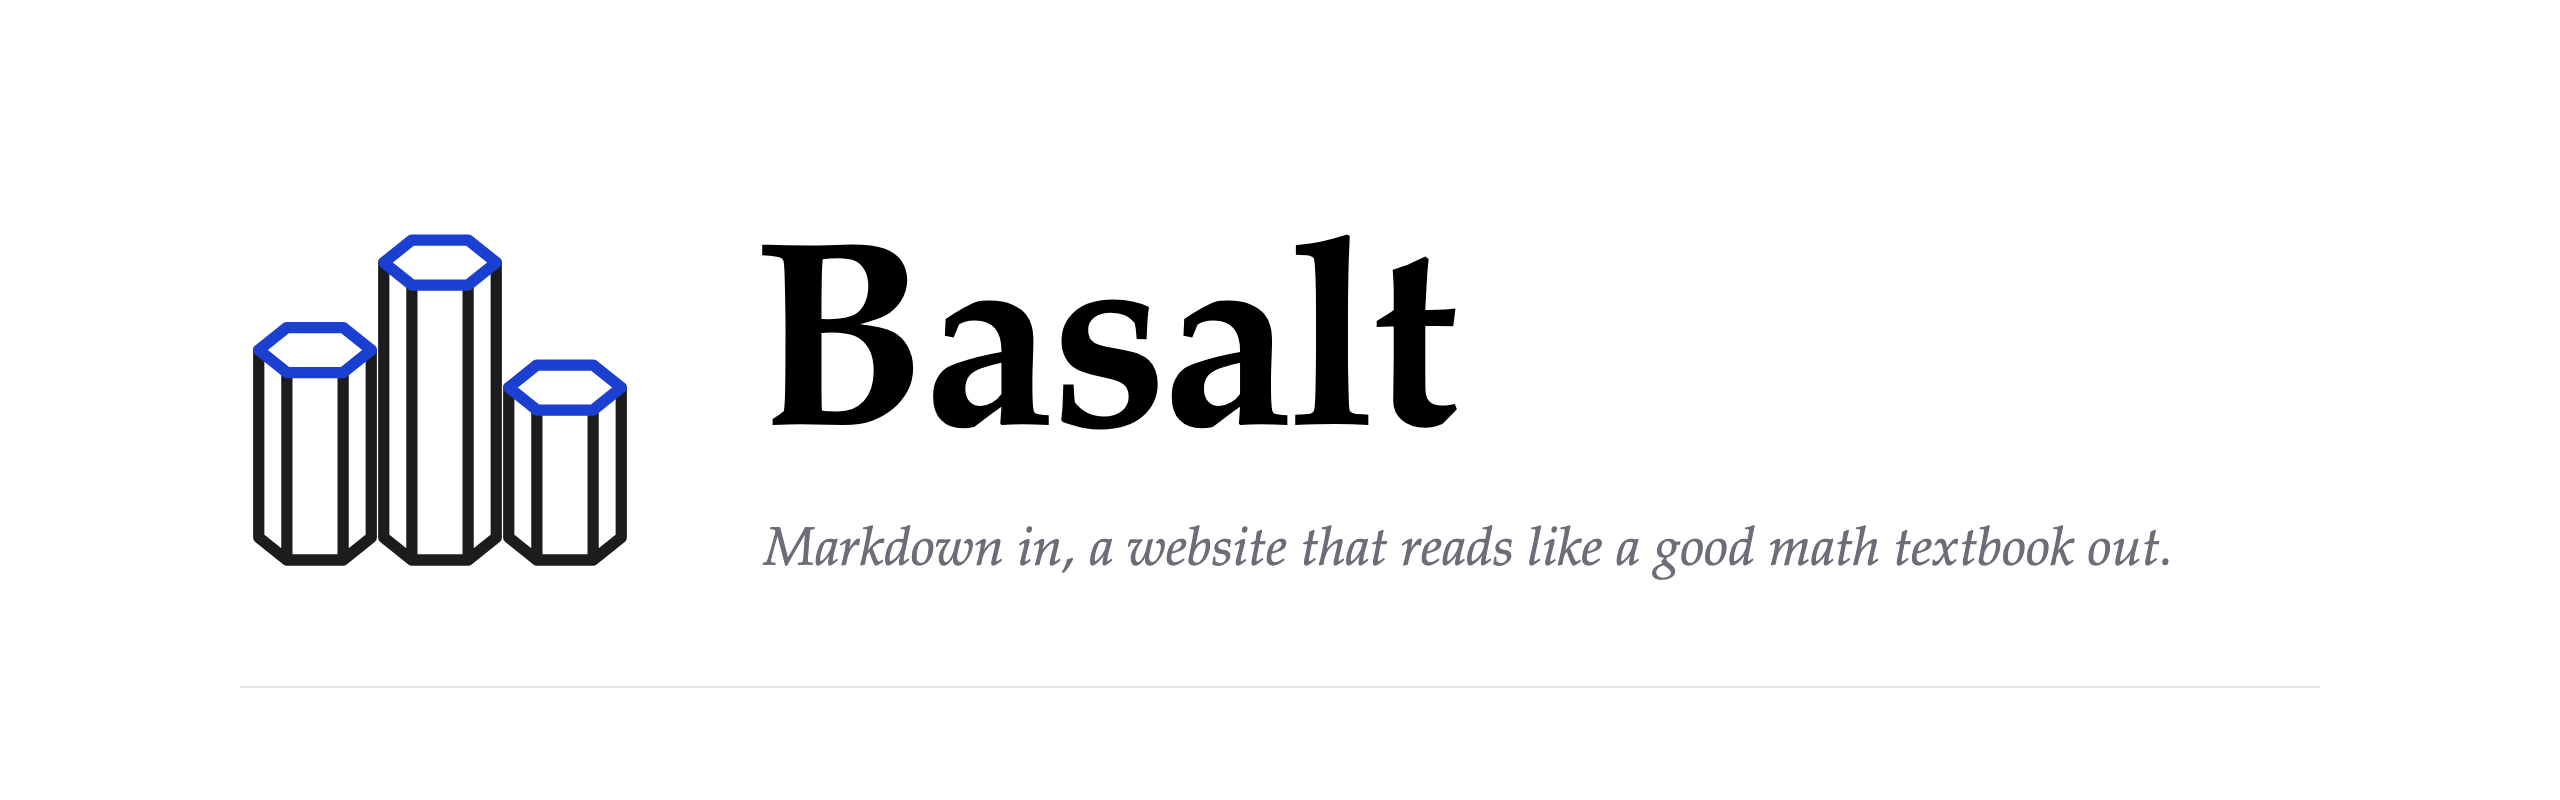
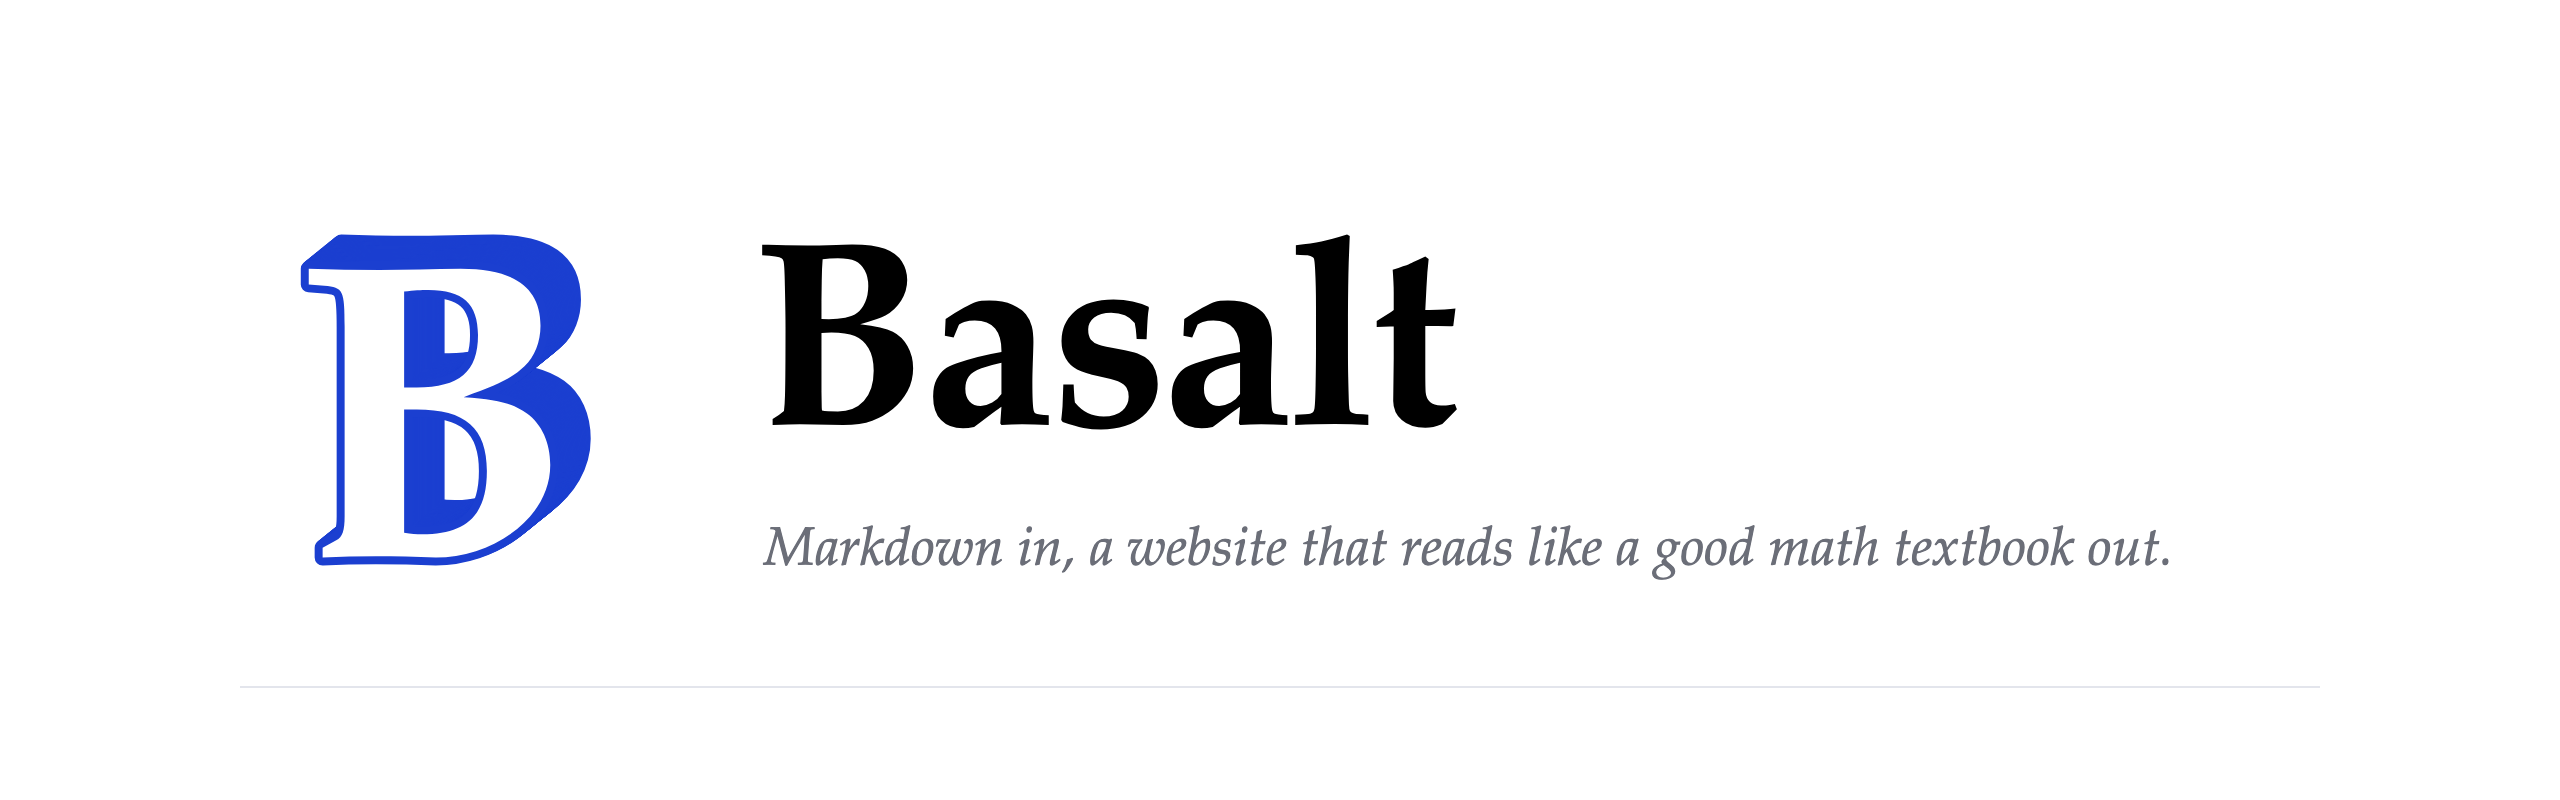
The mark is a solid B, line-drawn in the accent; the footer links Basalt's GitHub
The B is TeX Gyre Pagella Bold (Palatino's free twin), traced to a path
so it needs no font: a paper face with the accent's outline, its depth a
stack of copies, each hiding the one behind but for its edge. It's the
navbar's mark (in the page's own paper and accent), the tab's icon
(light and dark), and the README's banner. The showcase's footer swaps
Tufte CSS for Basalt's GitHub.

Changed region(s): [[0.0938, 0.2812, 0.25, 0.7188]]

diff --git a/src/lib/mark.ts b/src/lib/mark.ts
@@ -1,0 +1,23 @@
+// Basalt's mark: a B (TeX Gyre Pagella Bold, Palatino's free twin) set in
+// solid, line-drawn. Its front face is paper with the accent's outline; its
+// depth, up and to the right, is a stack of copies of it, each covering the
+// one behind but for its edge, so nothing shows through.
+
+export const B = "M5.5 6.75 6.75 6.85C8.27 6.99 8.37 7.19 8.37 10.16V25.29C8.37 26.44 8.2 26.95 7.7 27.22L6.61 27.82V28.6C8.03 28.53 9.45 28.5 10.87 28.5C12.46 28.5 14.08 28.53 15.67 28.6C20.06 28.6 24.82 25.56 24.82 21.2C24.82 19.41 24.14 17.93 22.96 17.08C21.74 16.24 20.6 15.94 17.89 15.77C20.73 14.75 21.71 14.28 22.76 13.3C23.57 12.56 24.04 11.34 24.04 10.06C24.04 6.99 21.91 5.5 17.66 5.5C15.5 5.5 13.34 5.6 11.17 5.6C9.28 5.6 7.39 5.57 5.5 5.5ZM13.13 26.61V16.75H14.15C18.06 16.75 19.75 18.23 19.75 21.68C19.75 25.19 18.16 26.74 14.58 26.74C14.08 26.74 13.71 26.71 13.13 26.61ZM13.13 14.99V7.32C13.94 7.22 14.45 7.19 15.09 7.19C17.83 7.19 19.04 8.3 19.04 10.8C19.04 13.74 17.56 14.99 14.15 14.99Z"
+
+/** the depth's copies, back to front */
+export const depth = Array.from({ length: 28 }, (_, i) => 28 - i).map(
+  (i) => `translate(${((2.6 * i) / 28).toFixed(3)} ${((-2.1 * i) / 28).toFixed(3)})`,
+)
+
+/** the mark as a standalone svg in fixed colours, light and dark (the tab's icon, the banner) */
+export function markSvg(light = { paper: "#ffffff", ink: "#1b3fd0" }, dark = { paper: "#0a1440", ink: "#8ea4ff" }) {
+  return (
+    `<svg xmlns="http://www.w3.org/2000/svg" viewBox="0 0 32 32">` +
+    `<style>use{fill:${light.paper};stroke:${light.ink};stroke-width:1.275;stroke-linejoin:round;paint-order:stroke}` +
+    `@media (prefers-color-scheme:dark){use{fill:${dark.paper};stroke:${dark.ink}}}</style>` +
+    `<defs><path id="b" d="${B}"/></defs>` +
+    depth.map((t) => `<use href="#b" transform="${t}"/>`).join("") +
+    `<use href="#b"/></svg>`
+  )
+}

diff --git a/src/styles/nav.scss b/src/styles/nav.scss
@@ -176,7 +176,7 @@ $semiBoldWeight: 600;
   }
 }
 
-// Basalt's mark: three pillars in line, the middle one tallest
+// Basalt's mark: a solid B, line-drawn in the accent (Mark.astro)
 .nav-mark {
   display: grid;
   place-items: center;
@@ -184,7 +184,6 @@ $semiBoldWeight: 600;
   height: 40px;
   margin-left: -4px;
   border-radius: 6px;
-  color: var(--dark);
   text-decoration: none;
   transition: background 0.3s ease;
 
@@ -192,29 +191,12 @@ $semiBoldWeight: 600;
     background: var(--highlight);
   }
 
-  .nav-mark-body {
-    stroke: var(--dark);
-    stroke-width: 1.3;
-  }
-
-  .nav-mark-top {
+  use {
+    fill: var(--light);
     stroke: var(--tertiary);
-    stroke-width: 1.4;
-  }
-
-  g {
-    transition: transform 0.45s $ease;
-  }
-  &:hover g:nth-child(1) {
-    transform: translateY(-1.5px);
-  }
-  &:hover g:nth-child(2) {
-    transform: translateY(1.5px);
-    transition-delay: 0.05s;
-  }
-  &:hover g:nth-child(3) {
-    transform: translateY(-1px);
-    transition-delay: 0.1s;
+    stroke-width: 1.275;
+    stroke-linejoin: round;
+    paint-order: stroke;
   }
 }
 

diff --git a/examples/showcase/notes/index.md b/examples/showcase/notes/index.md
@@ -14,7 +14,7 @@ Basalt is set the way [Edward Tufte](https://www.edwardtufte.com/) sets his book
 > Edward Tufte, Dallas, 2015. Photo by Keegan Peterzell, [CC BY-SA 4.0](https://creativecommons.org/licenses/by-sa/4.0).
 
 > [!aside] Why "Basalt"
-> Basalt cools into hexagonal columns, like the Giant's Causeway, or this site's mark.
+> Basalt cools into hexagonal columns, like the Giant's Causeway.
 
 ## What's different
 
